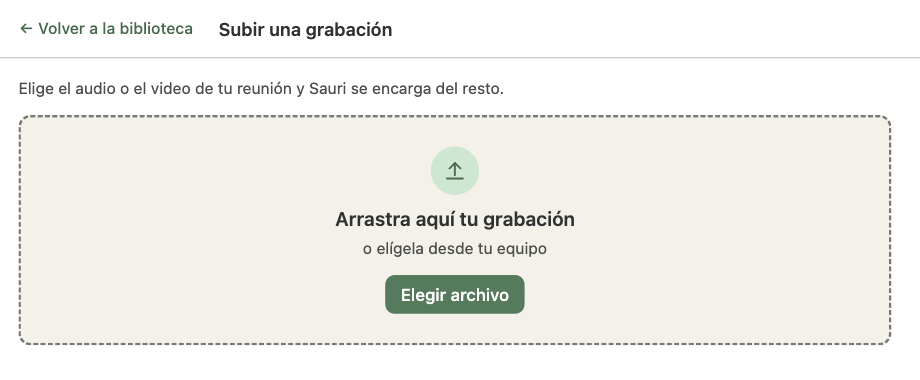
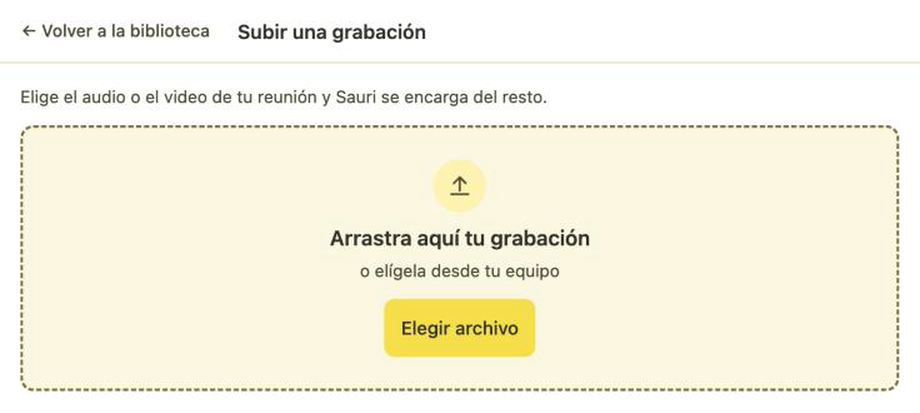
feat(landing): recapture the upload screen with the Sentinela palette

diff --git a/landing/index.html b/landing/index.html
@@ -159,7 +159,7 @@
             <figure class="shot">
               <picture>
                 <source srcset="assets/upload.webp" type="image/webp">
-                <img src="assets/upload.png" width="920" height="380" loading="lazy"
+                <img src="assets/upload.png" width="920" height="413" loading="lazy"
                   alt="Pantalla «Subir grabación» con una zona para arrastrar el archivo.">
               </picture>
             </figure>
